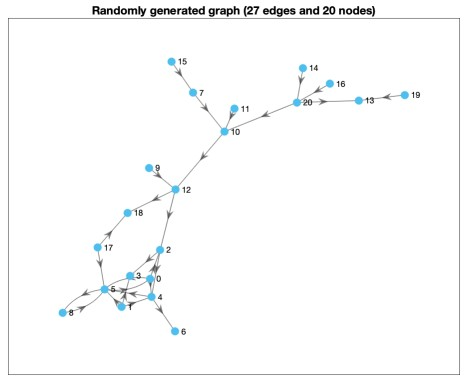
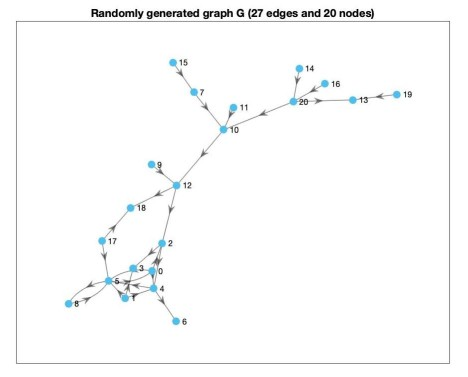
Update Matlab documentation

diff --git a/matlab/html/PRJ.html b/matlab/html/PRJ.html
@@ -68,19 +68,19 @@ table td { padding:7px 5px; text-align:left; vertical-align:top; border:1px soli
 
 
   </style></head><body><div class="content"><h1>PRJ</h1><!--introduction--><p>Documentation of the Matlab code of the project.</p><!--/introduction--><h2>Contents</h2><div><ul><li><a href="#2">Extract influential nodes</a></li><li><a href="#4">Adjacency list.</a></li><li><a href="#6">Neighbourhood of a node.</a></li><li><a href="#7">Number of edges in a neighbourhood</a></li><li><a href="#8">Local clustering coefficient</a></li><li><a href="#10">Local clustering coefficient for all nodes.</a></li><li><a href="#11">Main function</a></li></ul></div>
-<h2 id="2">Extract influential nodes</h2><p>This function reads a txt file and stores the influential nodes in <tt>i_nodes</tt>.</p><pre class="codeinput">  <span class="keyword">function</span> i_nodes = extract_nodes(file_path)
+<h2 id="2">Extract nodes</h2><p>This function reads a txt file and stores the nodes in <tt>i_nodes</tt>.</p><pre class="codeinput">  <span class="keyword">function</span> nodes = extract_nodes(file_path)
    fid = fopen(file_path); <span class="comment">% opens the file.</span>
    tline = fgetl(fid);
-   i_nodes = cell(1); <span class="comment">% cell array storing the nodes.</span>
+   nodes = cell(1); <span class="comment">% cell array storing the nodes.</span>
    i = 1;
    <span class="keyword">while</span> ischar(tline)
        tline = tline(~isspace(tline)); <span class="comment">% gets rid of whitespace.</span>
-       i_nodes{1,i} = tline;
+       nodes{1,i} = tline;
        tline = fgetl(fid);
        i = i+1;
    <span class="keyword">end</span>
   <span class="keyword">end</span>
-</pre></p><h2 id="4">Adjacency list.</h2><p>This function builds the adjacency list of a graph by reading the txt file.</p><pre class="codeinput"><span class="keyword">function</span> [s,t] = adjacency(file_path)
+</pre><p><img vspace="5" hspace="5" src="spe.jpg" alt=""> </p><h2 id="4">Adjacency list.</h2><p>This function builds the adjacency list of a graph by reading the txt file.</p><pre class="codeinput"><span class="keyword">function</span> [s,t] = adjacency(file_path)
     fid = fopen(file_path);
     tline = fgetl(fid);
     i = 1;
@@ -168,7 +168,7 @@ table td { padding:7px 5px; text-align:left; vertical-align:top; border:1px soli
    highlight(H,in,<span class="string">'NodeColor'</span>,<span class="string">'r'</span>,<span class="string">'MarkerSize'</span>,7);
    highlight(H,is,<span class="string">'NodeColor'</span>,<span class="string">'g'</span>,<span class="string">'MarkerSize'</span>,7);
 <span class="keyword">end</span>
-</pre><p><img vspace="5" hspace="5" src="in_degree.jpg" alt=""> </p><p><img vspace="5" hspace="5" src="out_degree.jpg" alt=""> </p><p class="footer"><br><a href="https://www.mathworks.com/products/matlab/">Published with MATLAB&reg; R2020a</a><br></p></div><!--
+</pre><p><img vspace="5" hspace="5" src="in_degree.jpg" alt=""> <img vspace="5" hspace="5" src="out_degree.jpg" alt=""> </p><p class="footer"><br><a href="https://www.mathworks.com/products/matlab/">Published with MATLAB&reg; R2020a</a><br></p></div><!--
 ##### SOURCE BEGIN #####
 %% PRJ
 % Documentation of the Matlab code of the project. 
@@ -179,14 +179,14 @@ main();
 % |i_nodes|.
   
 
-  function i_nodes = extract_nodes(file_path)
+  function nodes = extract_nodes(file_path)
    fid = fopen(file_path); % opens the file. 
    tline = fgetl(fid); 
-   i_nodes = cell(1); % cell array storing the nodes. 
+   nodes = cell(1); % cell array storing the nodes.
    i = 1;
    while ischar(tline)
        tline = tline(~isspace(tline)); % gets rid of whitespace. 
-       i_nodes{1,i} = tline;
+       nodes{1,i} = tline;
        tline = fgetl(fid);
        i = i+1;
    end

diff --git a/matlab/PRJ.m b/matlab/PRJ.m
@@ -127,32 +127,32 @@ function main()
    % The first figure displays the graph with nodes highlighted in blue.
    figure;
    plot(g,'EdgeColor','k','NodeColor','#4DBEEE','MarkerSize',7,'LineStyle','-','LineWidth',0.75);
-   title('Randomly generated graph (27 edges and 20 nodes)')
+   title('Randomly generated graph G (27 edges and 20 nodes)')
    % The second figure displays the graph with nodes highlighted related to
    % relatively to their in-degree values.
    figure;
    plot(g,'NodeCData',indegree(g),'EdgeColor','k','MarkerSize',7,'LineStyle','-','LineWidth',0.75);
-   title('Same graph with nodes coloured by in degree')
+   title('Graph G with nodes coloured by in degree')
    colorbar;
    % The third figure displays the graph with nodes highlighted related to
    % relatively to their out-degree values.
    figure;
    plot(g,'NodeCData',outdegree(g),'EdgeColor','k','MarkerSize',7,'LineStyle','-','LineWidth',0.75);
-   title('Same graph with nodes coloured by out degree')
+   title('Graph G with nodes coloured by out degree')
    colorbar;
    % The fourth figure displays the graph with nodes highlighted related to
    % relatively to their LCC values. 
    figure;
    lccs = compute_lccs(g);
    plot(g,'NodeCData',lccs,'EdgeColor','k','MarkerSize',7,'LineStyle','-','LineWidth',0.75);
-   title('Same graph with nodes coloured by local clustering coefficient')
+   title('Graph G with nodes coloured by local clustering coefficient')
    colorbar;
    % The fifth figure displays the graph with initial seed nodes highlighted
    % in red, influenced nodes (excluding initial seed nodes) in green abd
    % other nodes in blue.
    figure;
    H = plot(g,'EdgeColor','k','MarkerSize',7,'LineStyle','-','LineWidth',0.75,'NodeColor','#4DBEEE');
-   title('Same graph with influential nodes and influenced nodes')
+   title('Graph G with influential nodes and influenced nodes')
    in = extract_nodes("influential_nodes.txt");
    is = extract_nodes('influenced_nodes.txt');
    highlight(H,in,'NodeColor','r','MarkerSize',7);
